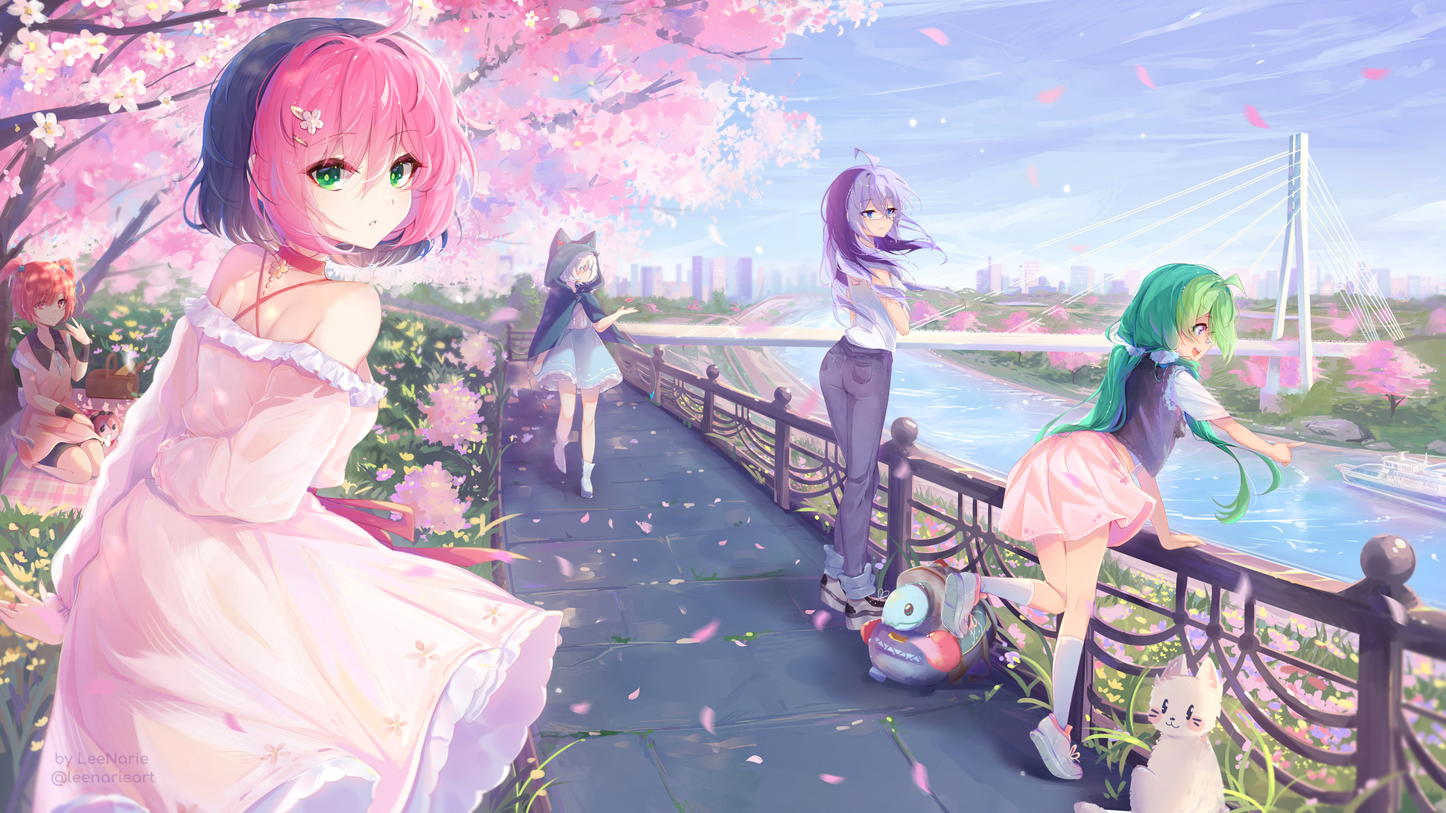
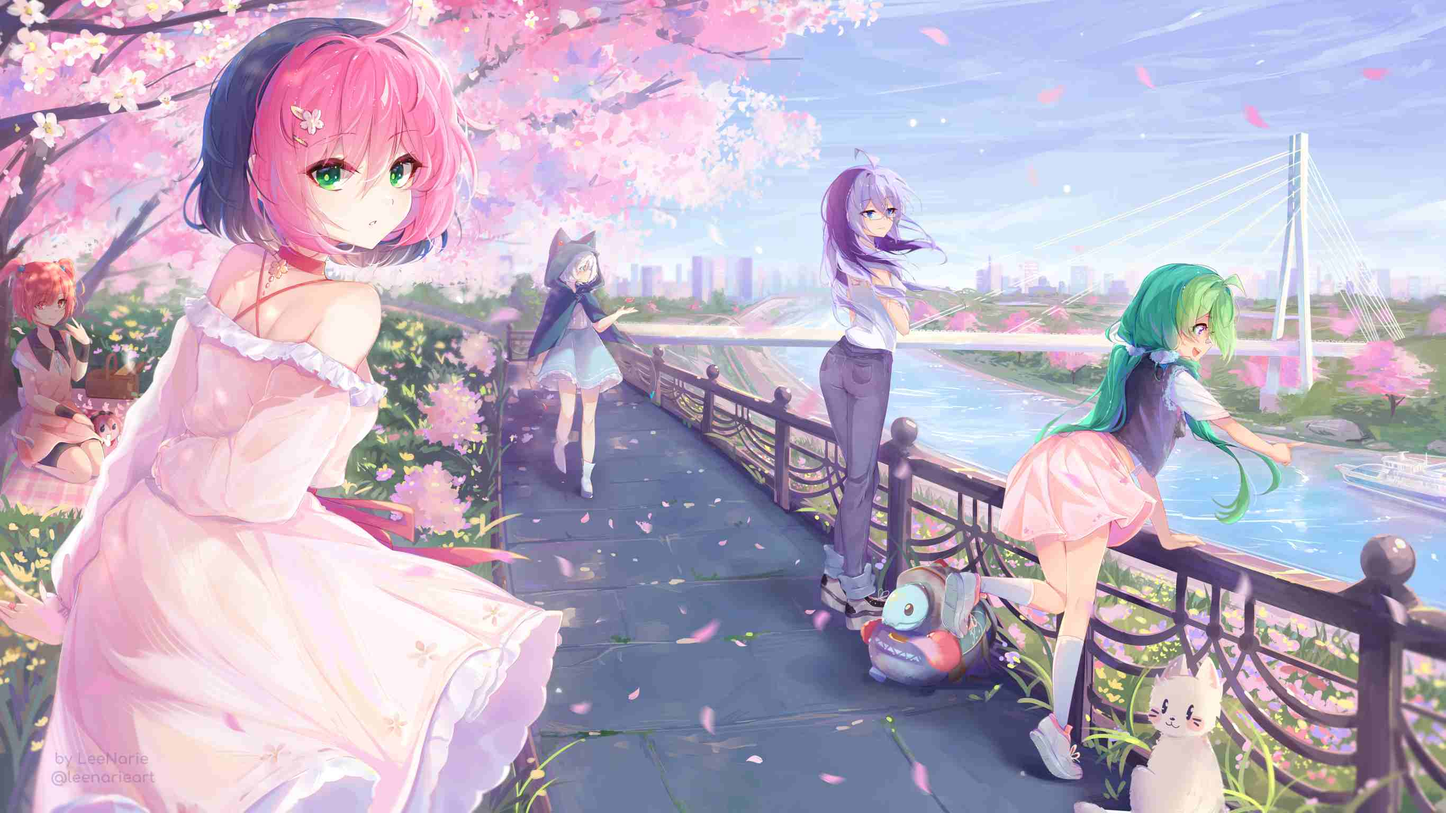
optimize images cuz loading 2mb as an image is not gonna work :pp

diff --git a/script.js b/script.js
@@ -9,6 +9,9 @@ document.addEventListener("DOMContentLoaded", function() {
 
 
   document.getElementById("defaultOpen").click();
+  setTimeout(changeBG, 5000);
+
+  
 });
 
 function openTab(evt, cityName) {
@@ -32,5 +35,17 @@ function openTab(evt, cityName) {
     evt.currentTarget.className += " active";
   } 
 
-//function changeBG {}
+  function changeBG() {
+    var count = Math.floor(Math.random() * 5) + ".jpg?raw=true"
+    var url = "https://github.com/dfltbox/defaultbox.xyz/blob/main/background-images/" + count;
+        var style = document.createElement('style');
+        style.innerHTML = `
+        body::before {
+            background-image: url("${url}");
+        }
+    `;
+    document.head.appendChild(style);
+    console.log('background changed i think');
+}
 //*borrowed* from https://www.w3schools.com/howto/howto_js_tabs.asp
+setTimeout(changeBG, 1000);

diff --git a/style.css b/style.css
@@ -75,6 +75,7 @@ body::before {
     left: 0;
     width: 100%;
     height: 100%;
+    animation: fadeEffect 1s;
     background-image: url("https://raw.githubusercontent.com/dfltbox/defaultbox.xyz/main/background-images/1.jpg");
     background-size: cover;
     background-position: center;
@@ -104,7 +105,7 @@ body::before {
 
   .tabcontent {
     margin-top: -20px;
-    animation: fadeEffect 0.8s; /* Fading effect takes 1 second */
+    animation: fadeEffect 0.5s;
     overflow: auto;
   } 
   
